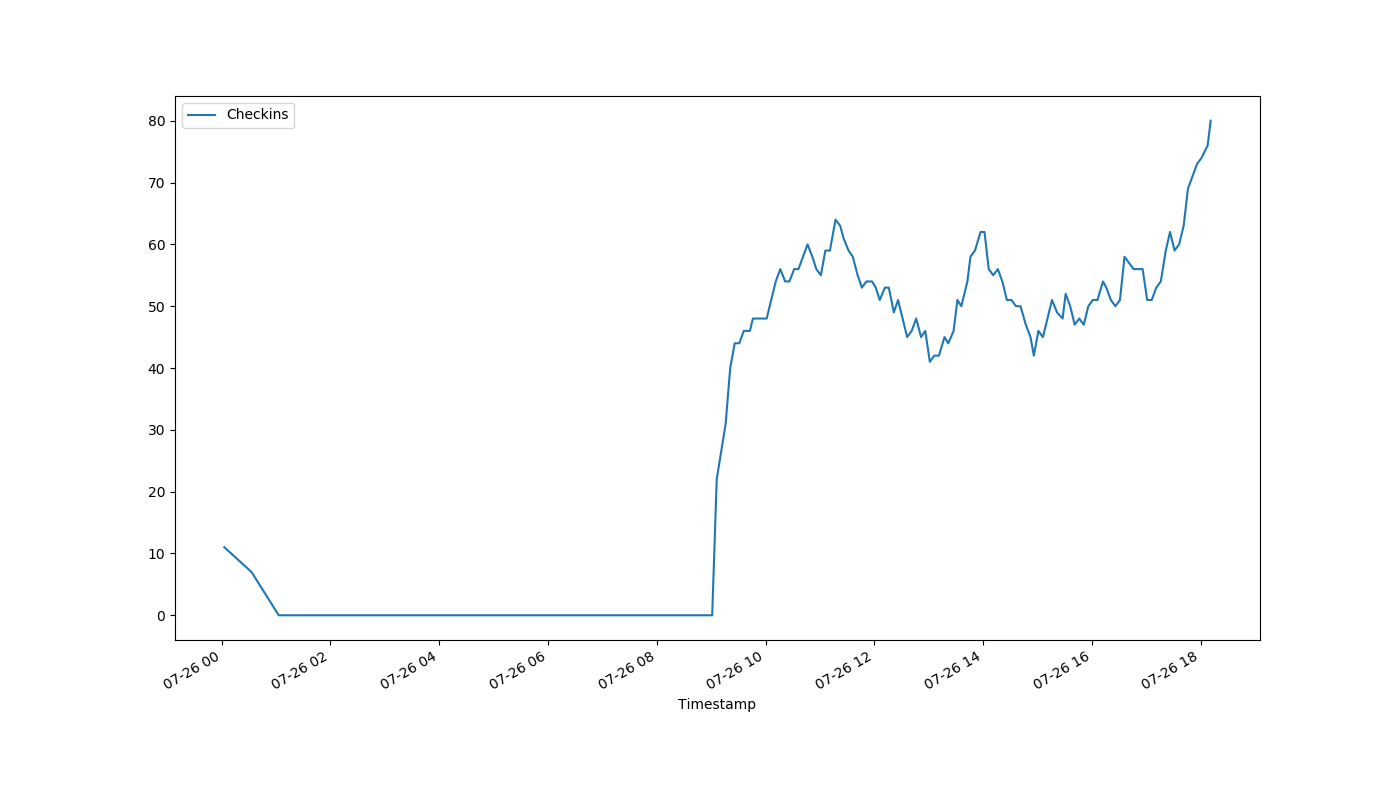
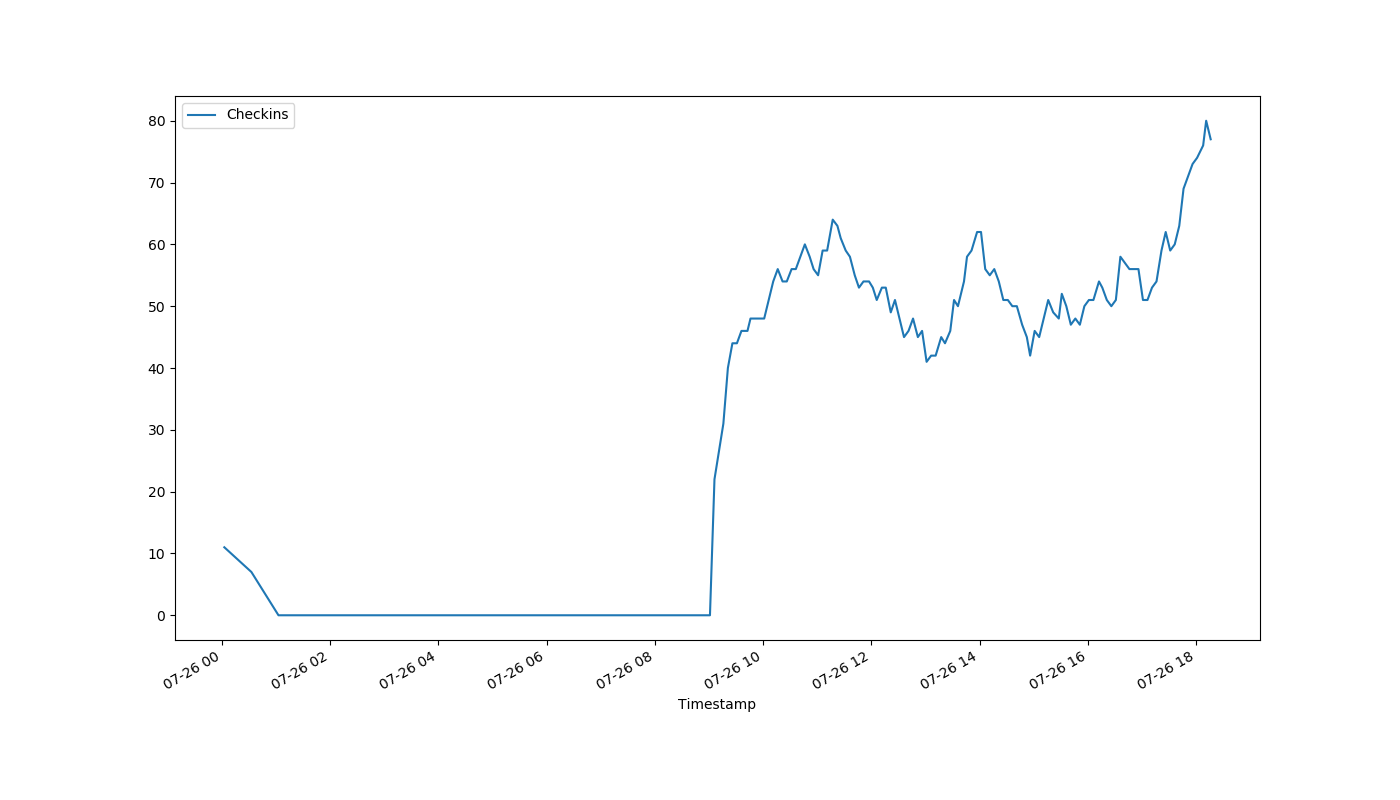
auto-Jul-26-18:17:52

diff --git a/index.html b/index.html
@@ -1,1 +1,1 @@
-<!DOCTYPE html><html><head><meta http-equiv="refresh" content="30"><link rel='stylesheet' href='holmcurrent.css'></head><body><p id='count'>80</p><div id='graph-wrap'><img id='graph' src='holmgraph-Jul-26.png'></div><p id='updated'>Last updated 18:11:15 / 18:11:07</p></body></html>
+<!DOCTYPE html><html><head><meta http-equiv="refresh" content="30"><link rel='stylesheet' href='holmcurrent.css'></head><body><p id='count'>77</p><div id='graph-wrap'><img id='graph' src='holmgraph-Jul-26.png'></div><p id='updated'>Last updated 18:16:15 / 18:16:08</p></body></html>
